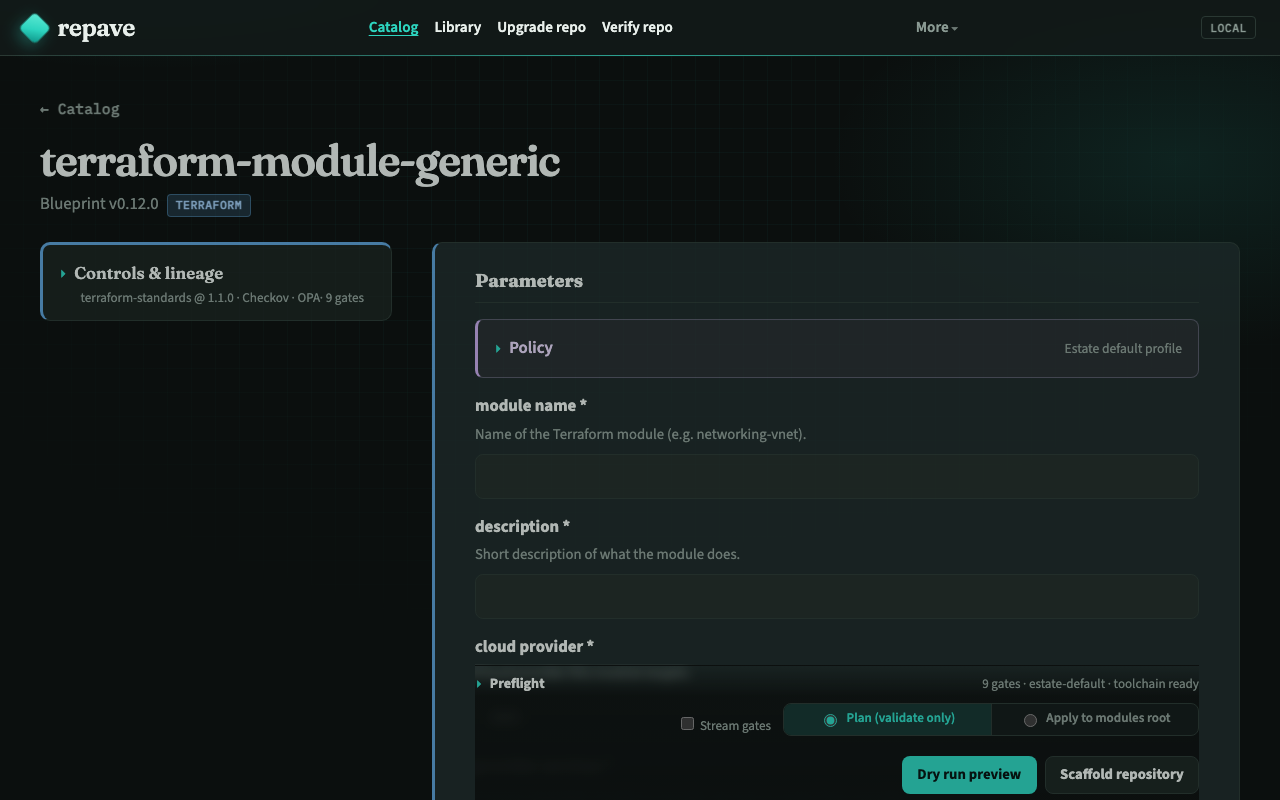
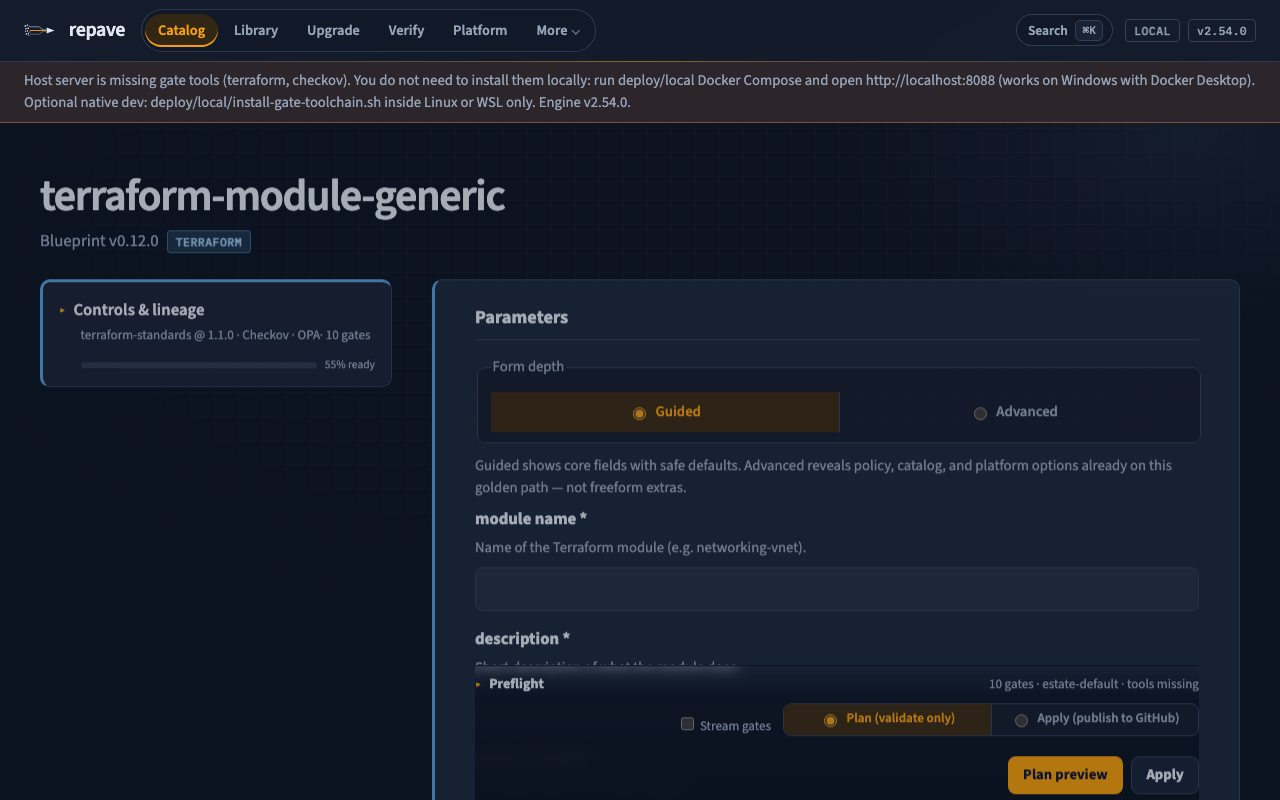
chore(brand): refresh screenshots and separate observability accent
Recapture portal and CLI docs images with Converge chrome, and move the
observability family color to teal so it no longer competes with brand amber.

diff --git a/engine/src/repave_engine/static/repave.css b/engine/src/repave_engine/static/repave.css
@@ -94,8 +94,9 @@
     --family-ansible-text: #a8e6d9;
     --family-policy: #c4a8e8;
     --family-policy-text: #e2d4f5;
-    --family-observability: #e8a84a;
-    --family-observability-text: #ffe8c8;
+    /* Teal — distinct from brand amber (#F59E0B) so family chrome ≠ golden path */
+    --family-observability: #2dd4bf;
+    --family-observability-text: #99f6e4;
     --family-helm: #326ce5;
     --family-helm-text: #c8d8ff;
     --family-gitops: #ef7b4d;

diff --git a/docs/brand/README.md b/docs/brand/README.md
@@ -121,7 +121,8 @@ layout or IA.
 - Active nav: thin amber indicator or muted amber wash — not a full amber bar.
 - Links in body copy: cool/neutral link tokens, not blanket amber.
 - Atmosphere/glow: keep low; prefer hierarchy over decoration.
-- Artifact-family badge colors stay independent of brand amber.
+- Artifact-family badge colors stay independent of brand amber (observability uses
+  teal, not gold).
 
 ## CLI guidance
 
